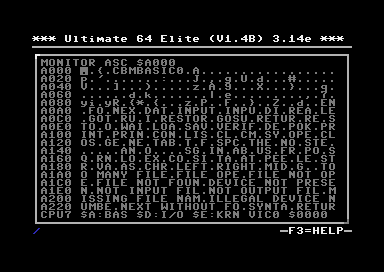
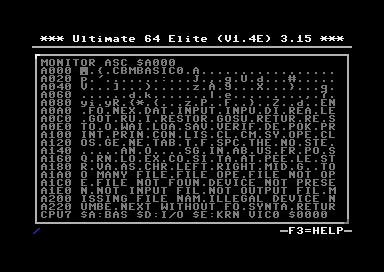
Recapture all monitor screenshots on 3.15 and fix typos

Changed region(s): [[0.5, 0.1176, 0.8125, 0.1765], [0.25, 0.1176, 0.4688, 0.1765], [0.0625, 0.1176, 0.2188, 0.1765]]

diff --git a/api/api_calls.rst b/api/api_calls.rst
@@ -311,9 +311,9 @@ Machine
        | *data*
      - | With this command, data can be written to C64 memory. To be more exact: this command writes data through DMA, so the
          memory map that is currently selected is used. Writing to the I/O registers of the 6510 is not possible.
-       | Data bytes are written in consequetive memory locations.
+       | Data bytes are written in consecutive memory locations.
          The *address* argument specifies the memory location in hexadecimal format. The *data* argument contains a string of bytes
-         in hexadecimal format. The maxmimum number of bytes written with this method is 128.
+         in hexadecimal format. The maximum number of bytes written with this method is 128.
        | Example: ``PUT /v1/machine:writemem?address=D020&data=0504``
        | This results in 05 being written to $D020 and 04 being written to $D021. In other words: the border will be green and the
          main screen will turn purple.

diff --git a/howto/machine_code_monitor.rst b/howto/machine_code_monitor.rst
@@ -165,7 +165,7 @@ Example:
 .. image:: ../media/monitor/binary_view.png
    :alt: Monitor Binary view at $DC00
 
-Cycling the ``W`` width mode to ``3S`` makes each row span the full 24 bits of a sprite line, so 21 consecutive rows display a whole C64 sprite as a bitmap. Here a sprite stored at ``$2000``:
+Cycling the ``W`` width mode to ``3S`` makes each row span the full 24 bits of a sprite line, so 21 consecutive rows display a whole C64 sprite as a bitmap. Here a sprite stored at ``$2400``:
 
 .. image:: ../media/monitor/binary_sprite.png
    :alt: Binary view in 3S sprite mode showing a 24 by 21 sprite bitmap
